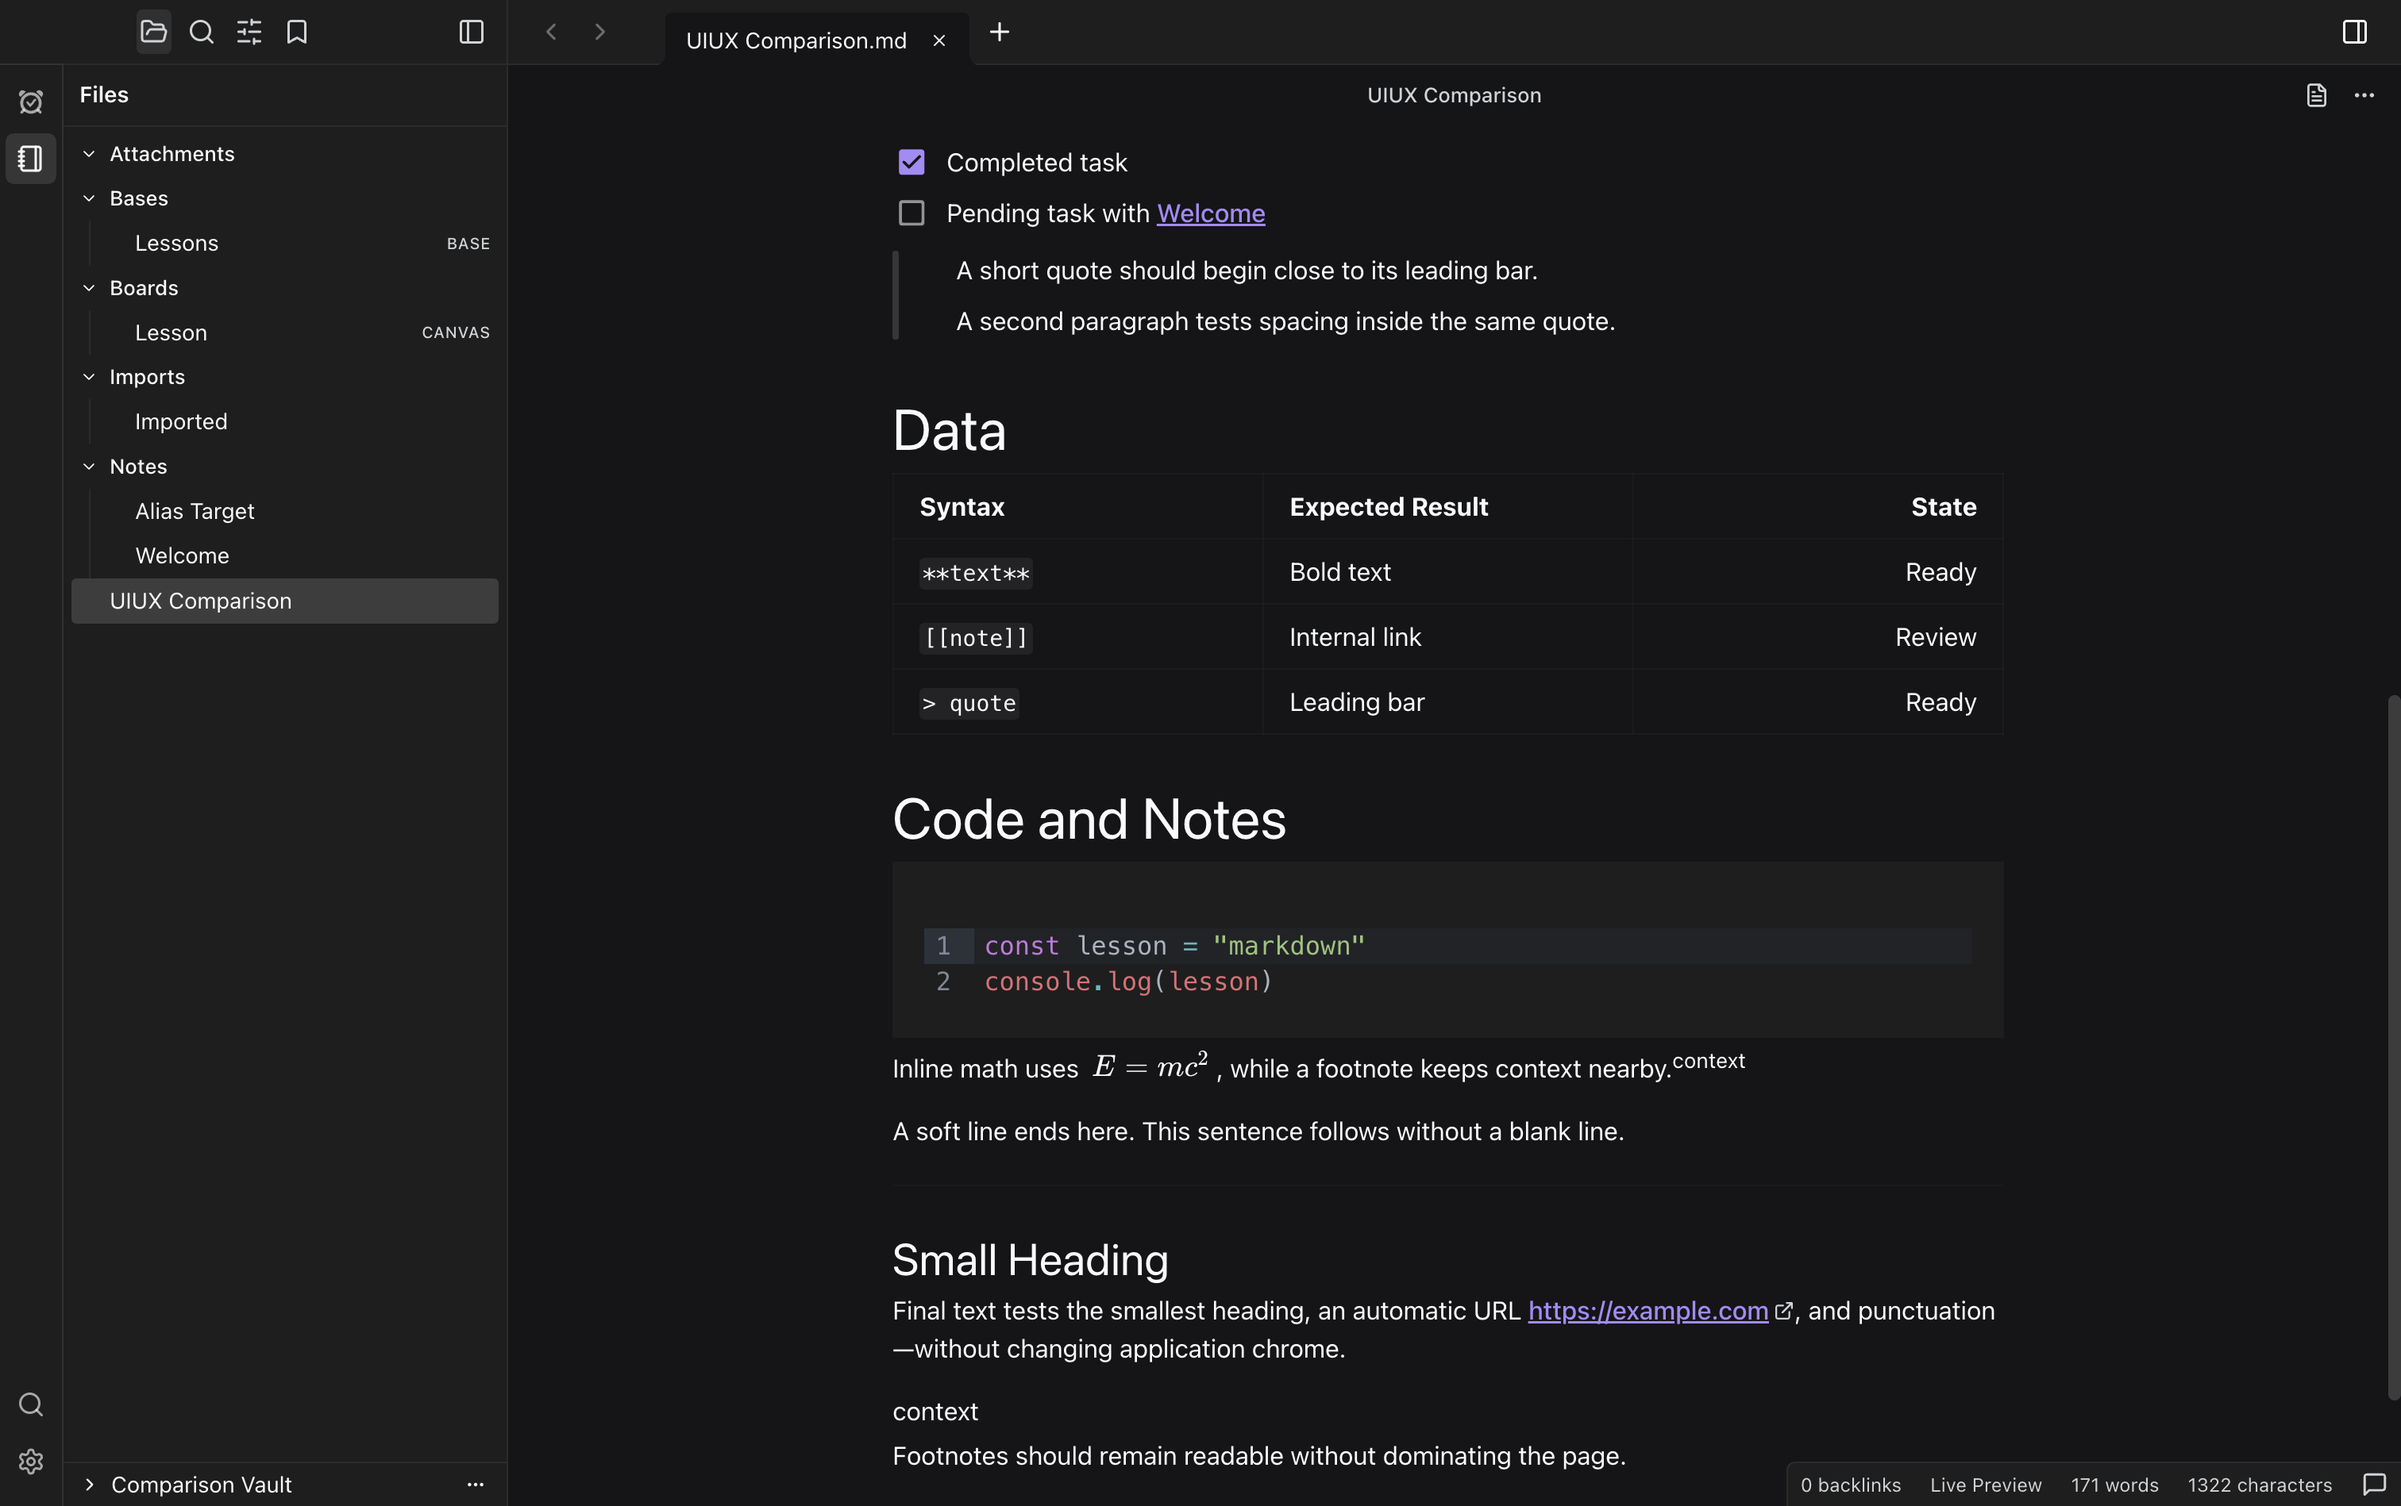
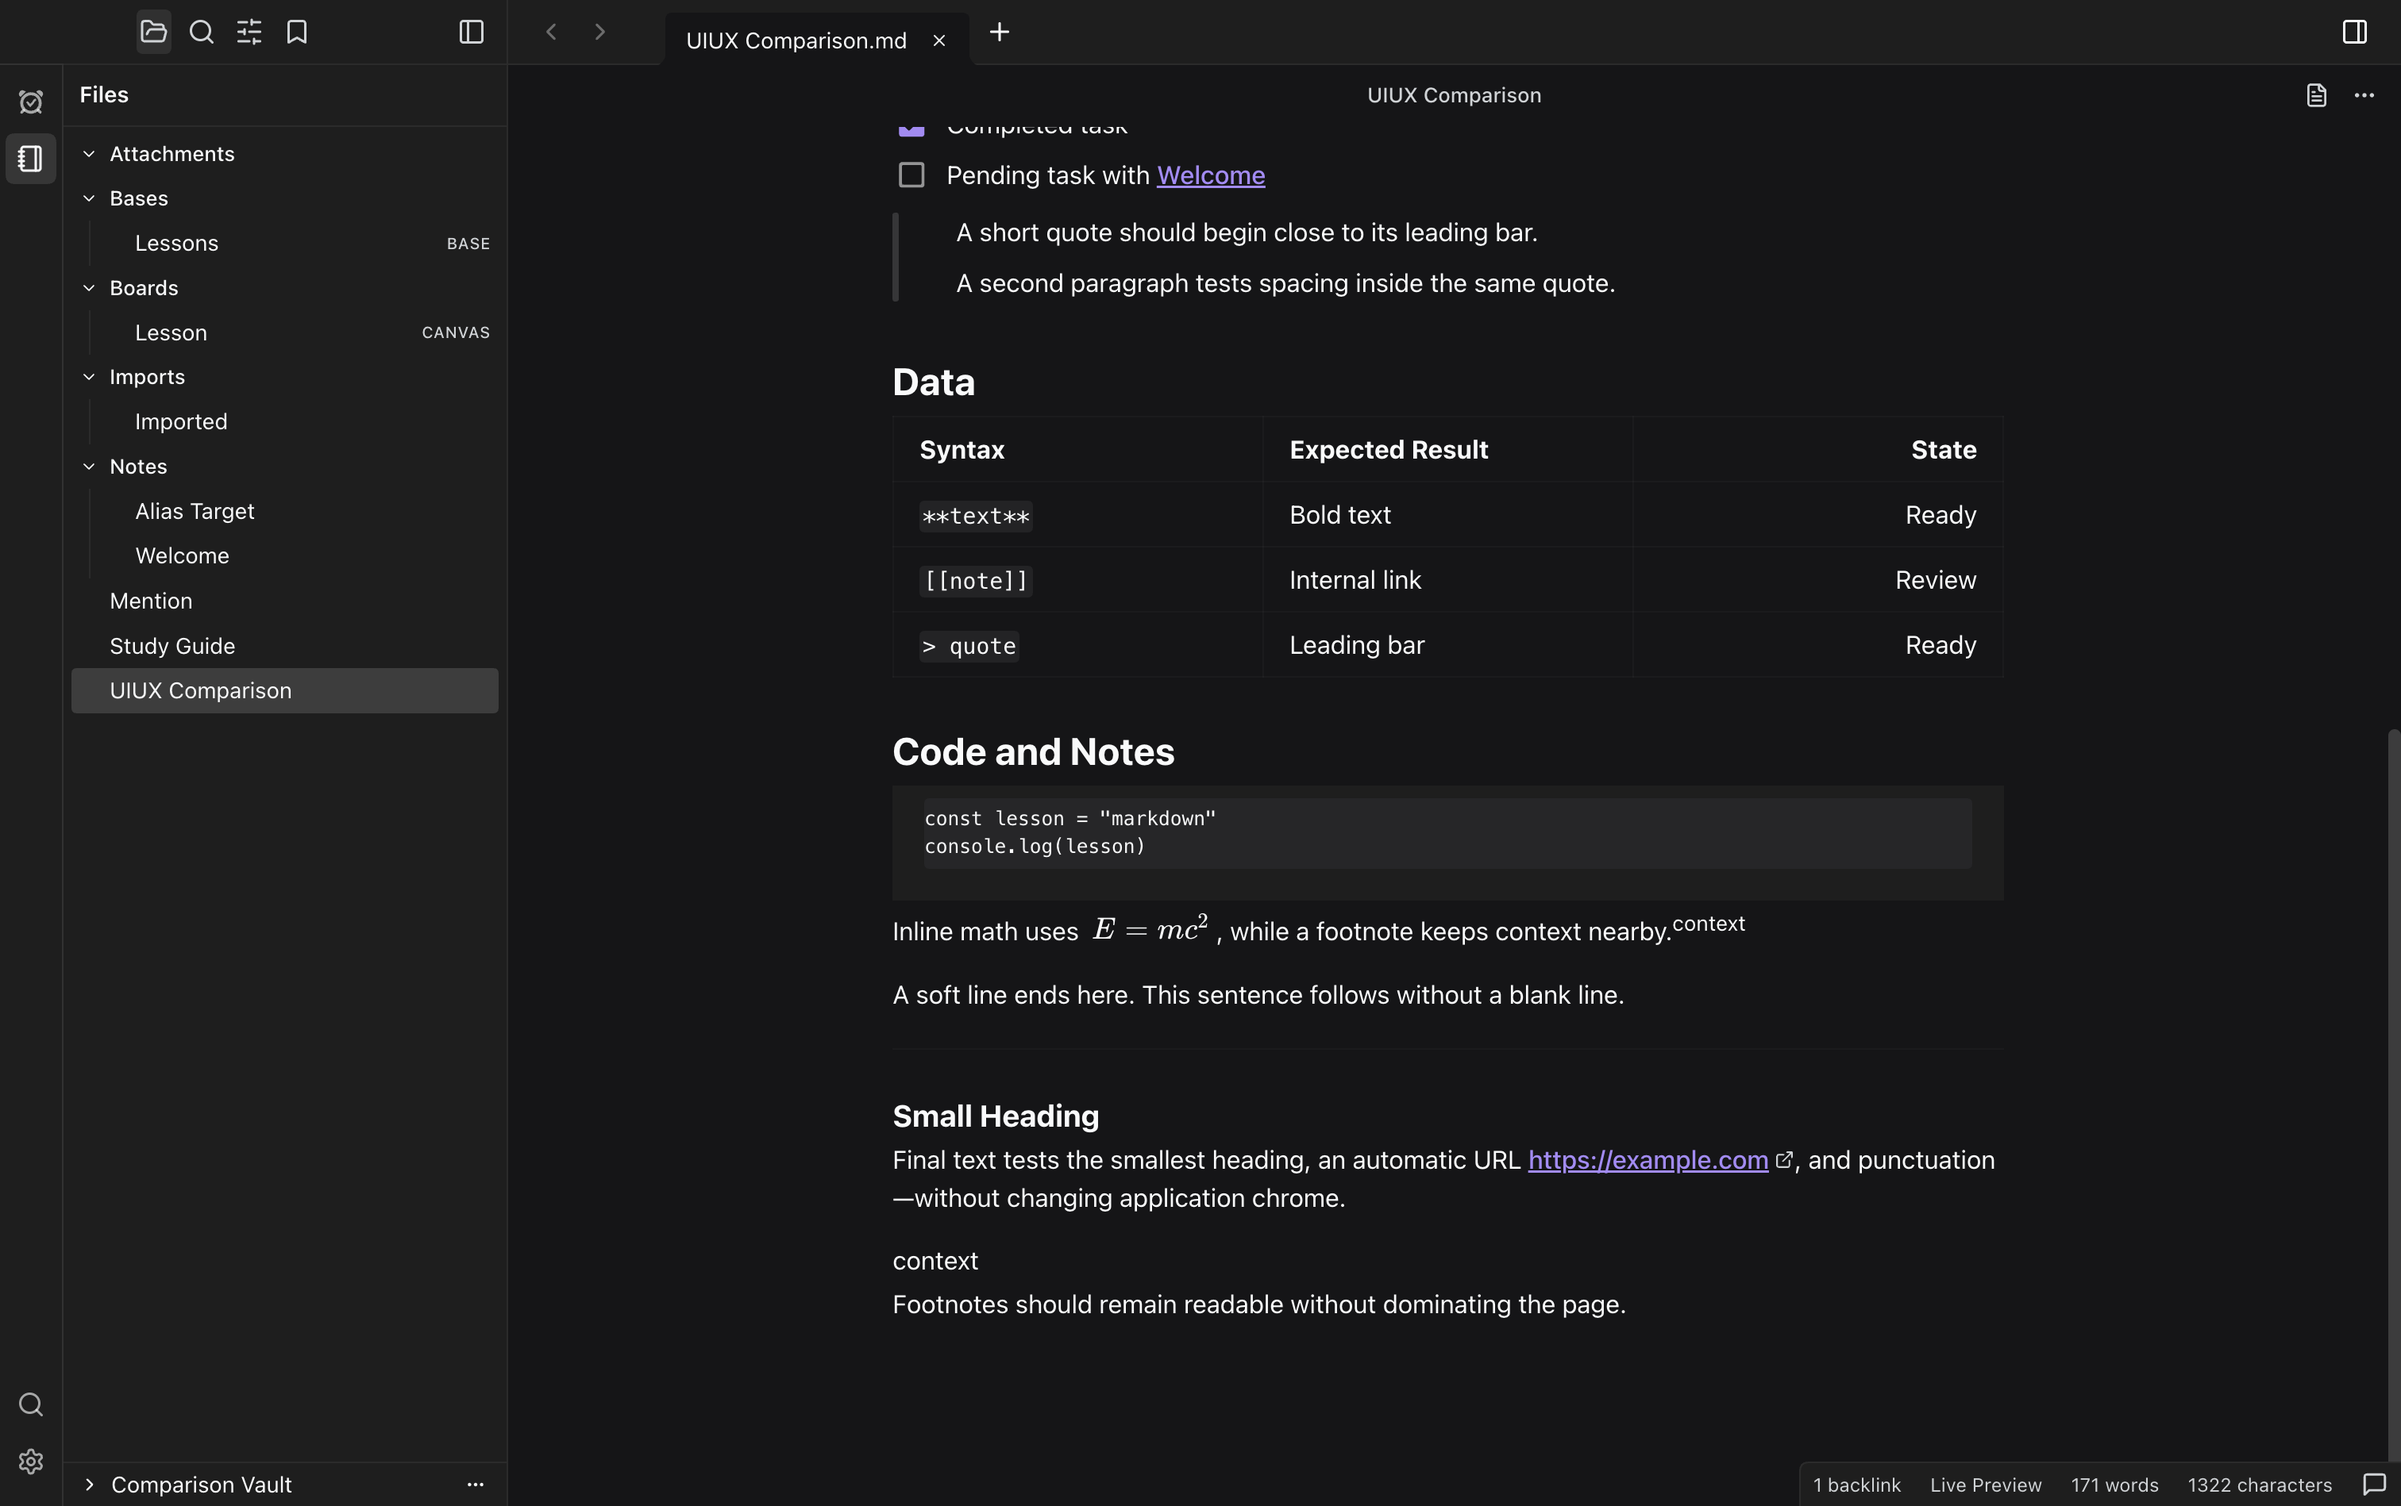
docs(tocktutor): retake Live Preview heading comparisons

diff --git a/.agents/uiux/tocktutor/content-alignment.md b/.agents/uiux/tocktutor/content-alignment.md
@@ -1,5 +1,9 @@
 # TockTutor and Obsidian Content Alignment
 
+## Focused Heading Scale Retake — 2026-09-25
+
+Retook the two TockTutor Live Preview screenshots visible in the reported gallery comparison: `tocktutor-editor-live-preview.png` and `tocktutor-live-preview-lower.png`. The source-built Desktop at `e1b84268` renders H1 at 26px, H2 at 24px, H3 at 20px, and H4 at 19px; the top view shows Markdown Rendering Lab, Structure, and Lists, while the lower view shows Data, Code and Notes, and Small Heading. Both are genuine 1512 × 949 CSS-pixel, 2× (3024 × 1898) captures of the shared note in Live Preview, with the built-in dark theme and no active skin. The startup TockCoder route again logged `workspaces.startSession is not a function` before switching to TockTutor; the capture-time console, page, and renderer error lists are empty. The guarded Electron process tree stopped with no descendants. Both new hashes and heading/scroll evidence are in `content-alignment.json`; all 61 other screenshots, including every Obsidian reference, retained their prior hashes. Other TockTutor gallery screenshots were not retaken in this focused request.
+
 ## Lower Live Preview Pair — 2026-09-25
 
 Added a fresh, scrolled comparison of the identical `UIUX Comparison.md` note in TockTeam Desktop and Obsidian 1.13.7. Both captures show Data, Code and Notes, and Small Heading in Live Preview at 1512 × 949 CSS pixels and 2× scale (3024 × 1898 pixels), using each product’s built-in dark theme and no TockTeam skin. Per-image hashes, visible-section and scroll evidence, theme, route, and error monitoring are in `content-alignment.json`.
